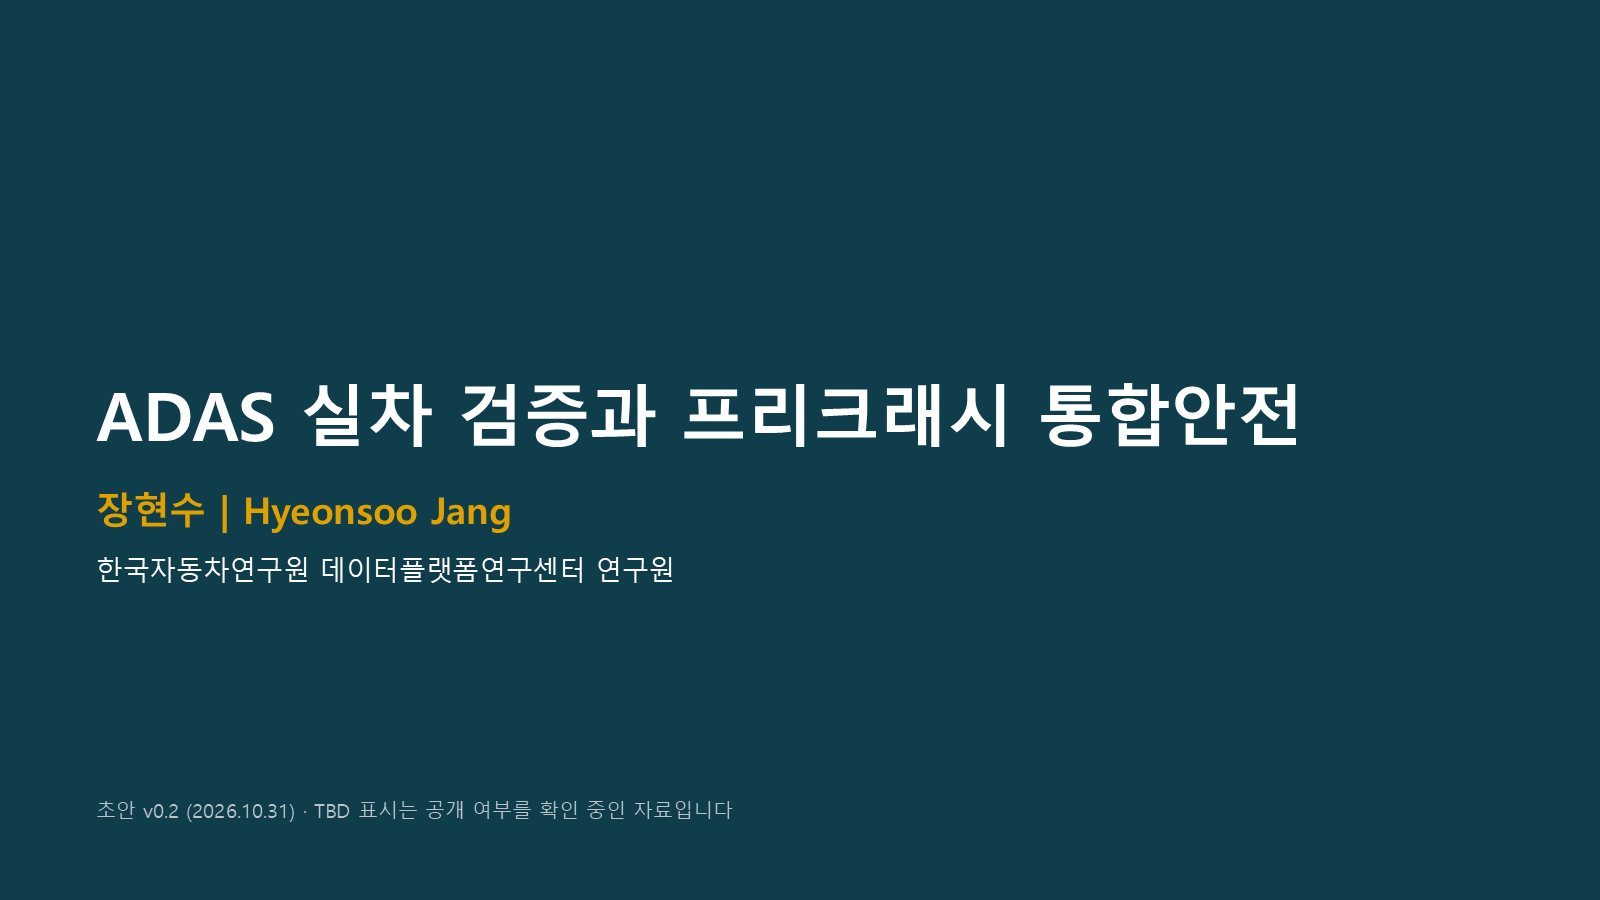
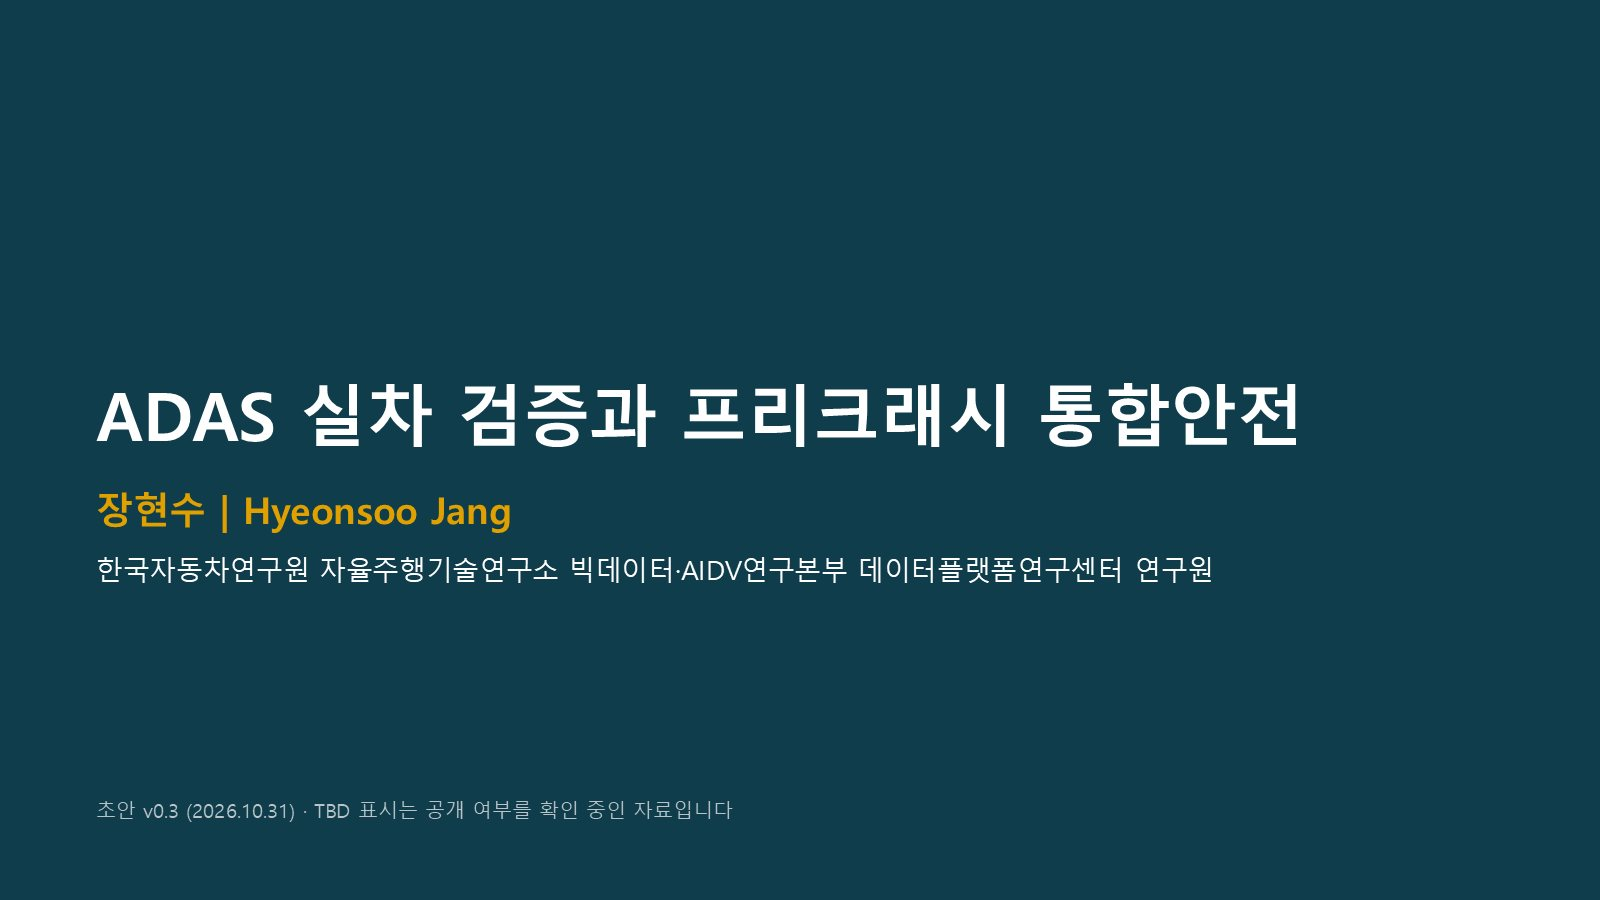
특허 도면과 기술 자문 추가, 소속 표기 수정
공개·등록 특허의 도면을 싣고 기타 탭에 기술애로분석을 넣는다.
소속을 빅데이터·AIDV연구본부로 고치고 구글 스칼라 주소를 넣을 자리를 만든다.

Changed region(s): [[0.1875, 0.6222, 0.75, 0.6533]]

diff --git a/assets/style.css b/assets/style.css
@@ -85,6 +85,9 @@ ul.dated li { display: grid; grid-template-columns: 148px minmax(0, 1fr); gap: 1
 .meta strong { color: var(--fg); font-weight: 800; }
 ul.biblio li { padding-block: 16px; border-top: 1px solid var(--line); }
 ul.biblio li:first-child { border-top: 0; padding-top: 0; }
+.drawings { display: flex; flex-wrap: wrap; gap: 14px; margin-top: 14px; }
+.drawings figure { margin: 0; width: 200px; max-width: 100%; }
+.drawings img { background: #fff; border: 1px solid var(--line); height: 240px; width: 100%; object-fit: contain; padding: 6px; }
 .tag { display: inline-block; font-size: .78rem; font-weight: 700; line-height: 1.6; padding: 0 7px; background: var(--tag-bg); color: var(--tag-fg); white-space: nowrap; vertical-align: 1px; }
 .page-head { background: var(--asphalt); color: var(--paint-white); padding-block: 36px 34px; }
 .page-head p { color: var(--on-asphalt-muted); margin: 10px 0 0; max-width: 42em; }
